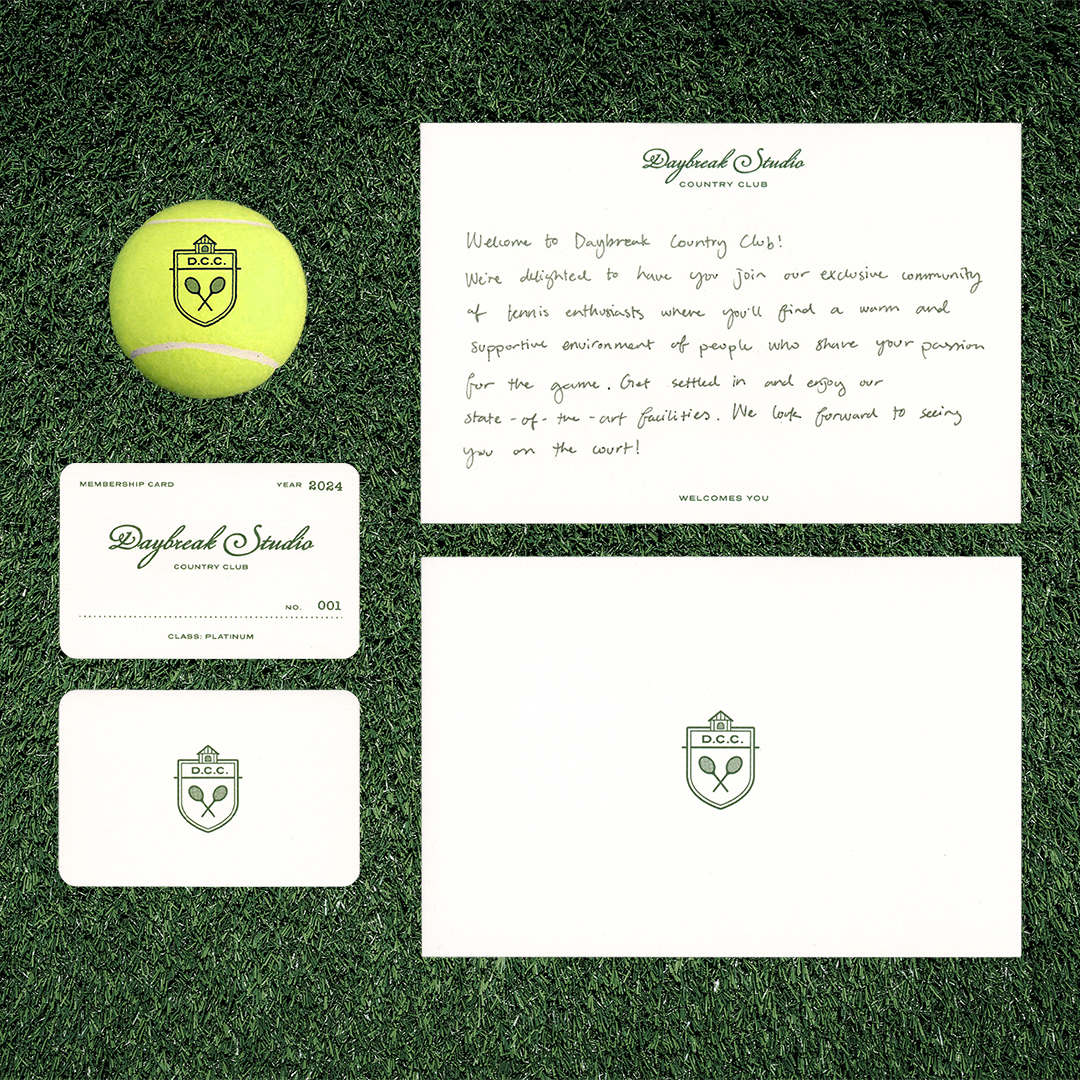
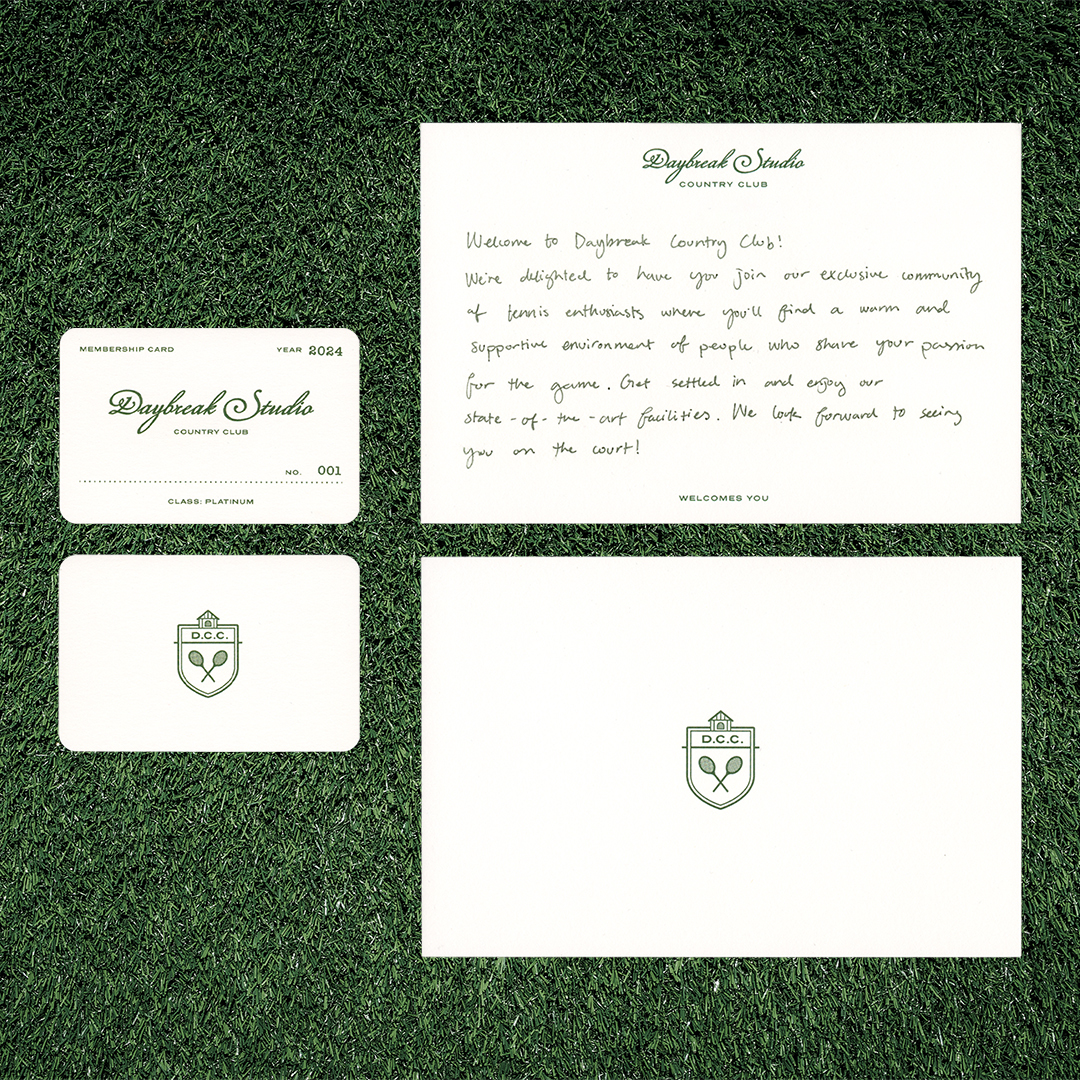
content update

diff --git a/src/components/ProductInfoPanel/ProductInfoPanel.tsx b/src/components/ProductInfoPanel/ProductInfoPanel.tsx
@@ -43,8 +43,8 @@ const ProductInfoPanel = (props: Props) => {
       </p>
       <p className="mb-4">
         In addition to the sweatshirt, your membership bundle will also include
-        the following: a custom Penn-branded collaborative tennis ball, a
-        personalized welcome letter, and your very own membership card.
+        a personalized welcome letter and your very own membership card. Global
+        Shipping Included.
       </p>
 
       <small className="mb-4 font-sans-xs opacity-50 max-w-[30ch]">
